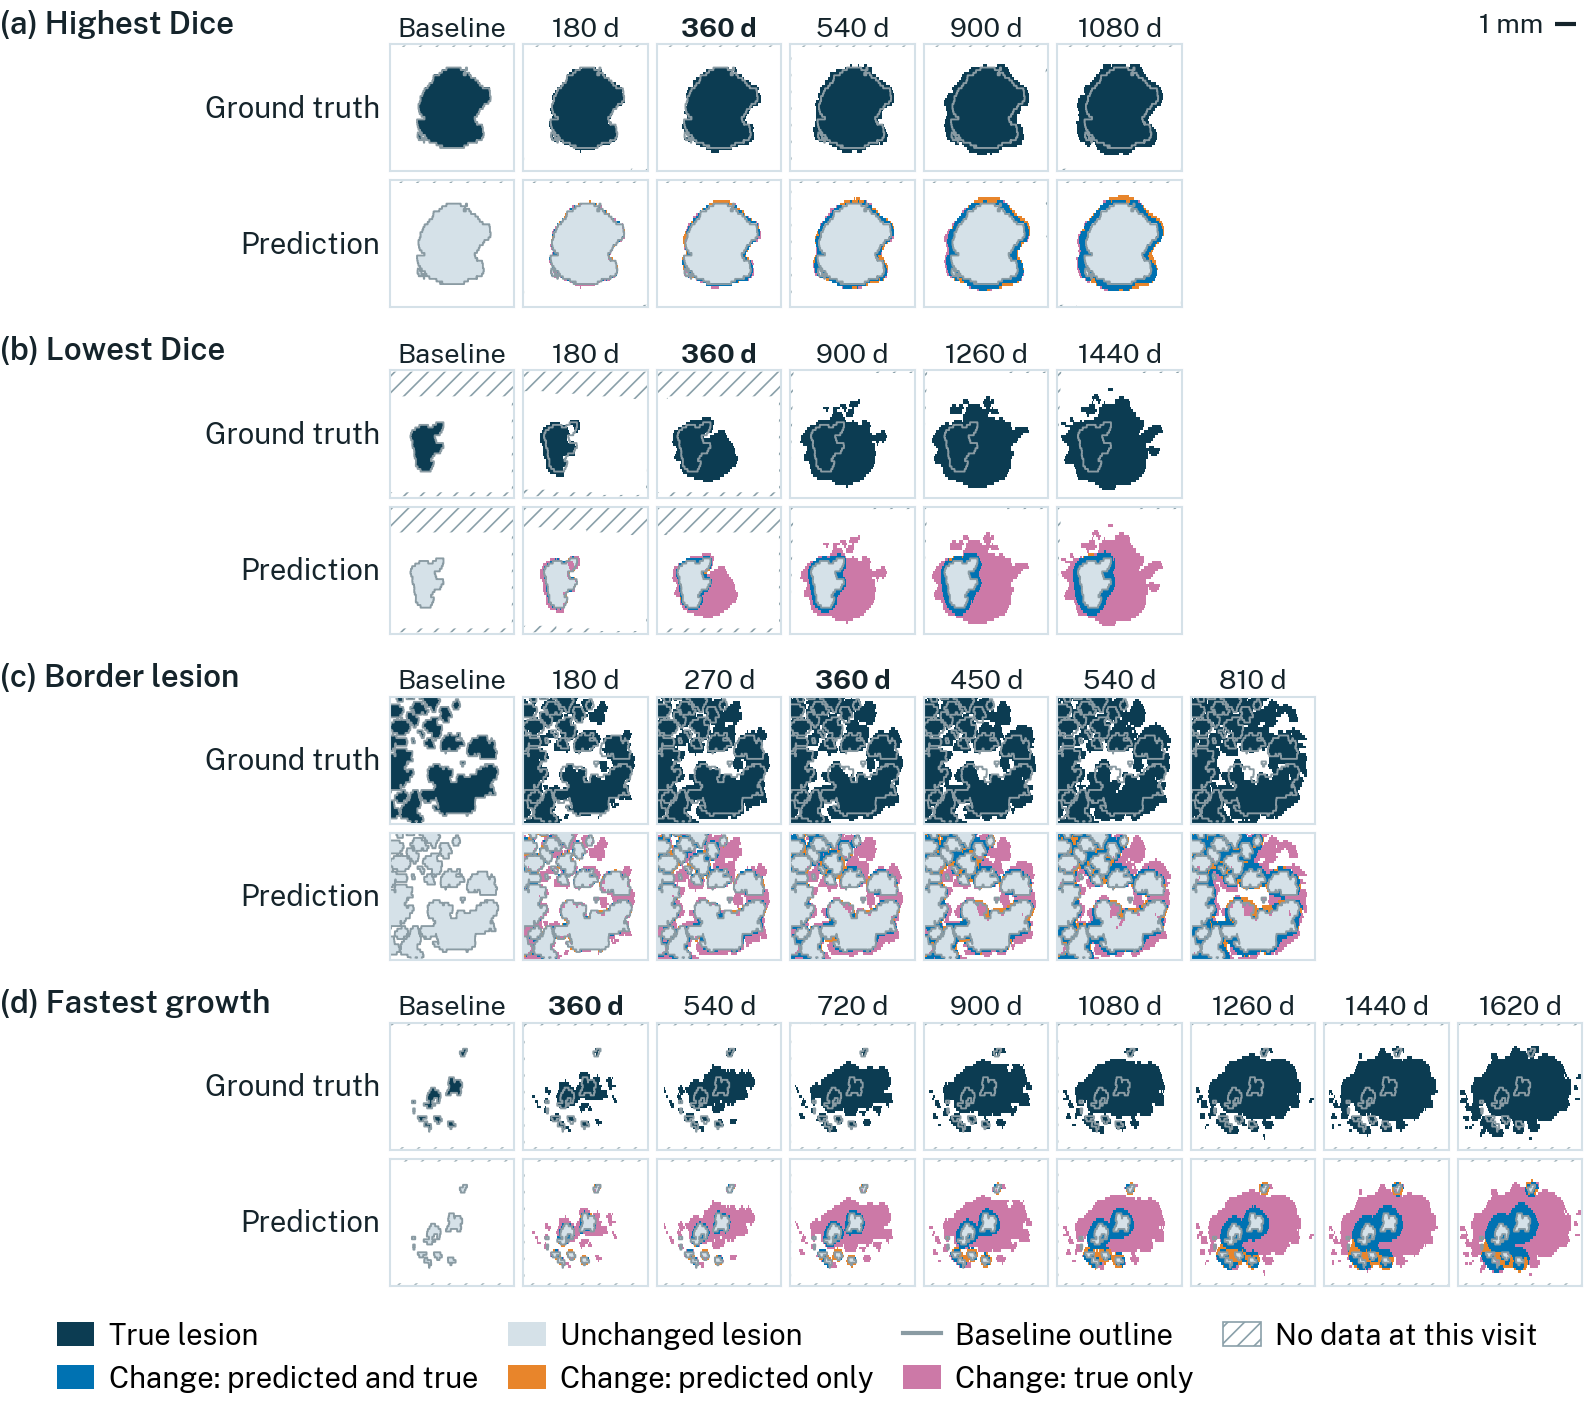
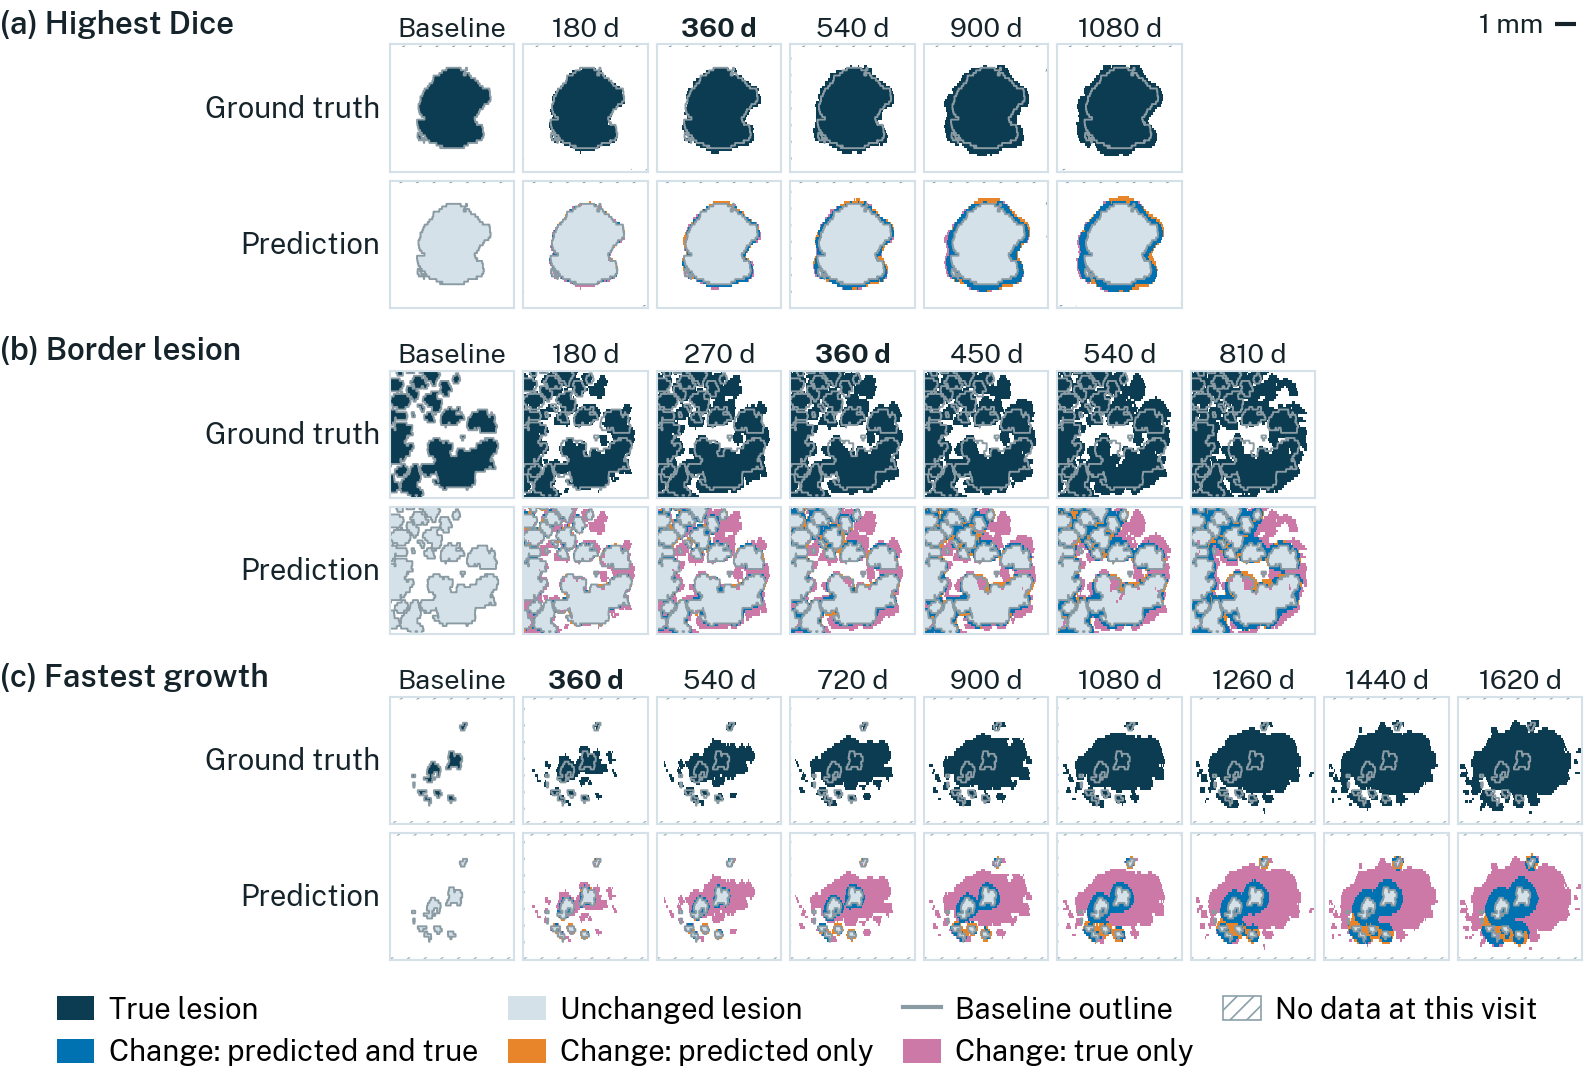
Review v6 #17/#21: GPU-sharing sentence removed; Fig. D.1 without the lowest-Dice panel; 'largest effect' removed from 5.3.2

diff --git a/91-appendix.tex b/91-appendix.tex
@@ -102,22 +102,22 @@ than 5\,\% of it in 6.0\,\%, and at most 25.7\,\%.
 % failure modes for 5.6 is still to be written.)
 
 Figure~\ref{fig:appendix:rollouts} shows rollouts of the canonical
-dilated-stencil graph network for four further eyes, chosen by fixed rules
-from the 48 validation eyes of folds 0, 1 and 2: the eyes with the highest
-and the lowest growth-region Dice at the one-year anchor, the eye whose
-lesion has the most pixels on the border of the crop, and the eye with the
-fastest true growth. The two failure cases share one pattern: the true
-lesion expands far beyond its baseline outline, and the predicted change
-stays a narrow band along that outline, so most of the true change is
-missed.
+dilated-stencil graph network for three further eyes, chosen by fixed
+rules from the 48 validation eyes of folds 0, 1 and 2: the eye with the
+highest growth-region Dice at the one-year anchor, the eye whose lesion has
+the most pixels on the border of the crop, and the eye with the fastest
+true growth. In the fastest-growing eye, the true lesion expands far beyond
+its baseline outline while the predicted change stays a narrow band along
+that outline, so most of the true change is missed.
 
 % Figure: images/scripts/fig_appendix_rollouts.py, from rollouts regenerated by
 % images/scripts/rollouts_regen.py (epoch-29 weights; folds 0-2 reproduce
 % their logged change-region Dice). Picks: (a) fold 0 index 10, 0.775;
-% (b) fold 0 index 5, 0.246; (c) fold 0 index 19, 833 border pixels;
-% (d) fold 0 index 14, 0.594 mm/yr (Dice 0.308). The longest-gap rule was
-% replaced by the fastest-growth rule because the longest-gap eye is the
-% eye of fig:experiments:rollout.
+% (b) fold 0 index 19, 833 border pixels; (c) fold 0 index 14, 0.594 mm/yr
+% (Dice 0.308). The longest-gap rule was replaced by the fastest-growth rule
+% because the longest-gap eye is the eye of fig:experiments:rollout.
+% 2026-10-02 (author review v6 #21): the "lowest Dice" panel (fold 0 index 5,
+% 0.246) was removed; the other three picks are unchanged without it.
 \begin{figure}[t]
   \centering
   % \includegraphics[width=\textwidth]{images/fig_appendix_rollouts.png}
@@ -126,15 +126,15 @@ missed.
     for Figure~\ref{fig:appendix:rollouts}: additional rollouts of the canonical model.}}
   \caption[Additional rollouts of the canonical model.]{%
     Additional rollouts of the dilated-stencil graph network (weights after
-    the last training epoch) for four validation eyes, each shown as ground
-    truth (upper row) and prediction (lower row) over all of its follow-up
-    visits. The eyes were selected by fixed rules from the 48 validation
-    eyes of folds 0, 1 and 2, excluding the eye of
-    Figure~\ref{fig:experiments:rollout}: \emph{(a)}~the highest and
-    \emph{(b)}~the lowest per-eye growth-region Dice at the one-year anchor
-    (late-epoch mean, 0.775 and 0.246); \emph{(c)}~the eye with the most
-    true-lesion pixels on the border of the imaged field at the anchor;
-    \emph{(d)}~the eye with the fastest true growth over its whole
+    the last training epoch) for three validation eyes, each shown as
+    ground truth (upper row) and prediction (lower row) over all of its
+    follow-up visits. The eyes were selected by fixed rules from the 48
+    validation eyes of folds 0, 1 and 2, excluding the eye of
+    Figure~\ref{fig:experiments:rollout}: \emph{(a)}~the highest per-eye
+    growth-region Dice at the one-year anchor (late-epoch mean, 0.775);
+    \emph{(b)}~the eye with the most true-lesion pixels on the border of the
+    imaged field at the anchor; \emph{(c)}~the eye with the fastest true
+    growth over its whole
     follow-up (0.59\,mm per year on the square-root area scale, measured
     within the crop). Column headers give the time since baseline in days;
     the one-year anchor is set in bold. The encoding is that of

diff --git a/images/scripts/fig_appendix_rollouts.py b/images/scripts/fig_appendix_rollouts.py
@@ -1,6 +1,6 @@
 """Figure fig_appendix_rollouts (Appendix D): additional rollouts of the canonical model
 (dilated-stencil graph network, epoch-29 weights), ground truth and prediction per eye,
-for four eyes chosen by stated rules from the regenerated validation eyes of folds 0, 1, 2.
+for three eyes chosen by stated rules from the regenerated validation eyes of folds 0, 1, 2.
 
 Data: images/data/rollouts/ANISOGNN_final_dilmean_f{0,1,2}.npz, written and self-checked by
 rollouts_regen.py (each reproduces its run's logged epoch-29 change-region Dice@360d).
@@ -9,11 +9,11 @@ Selection rules (over the 48 regenerated eyes; each rule skips eyes already chos
 eye shown in fig_experiments_rollout):
   (a) highest per-eye growth-region Dice at the one-year anchor (late-epoch mean,
       thesis_numbers.eye_late),
-  (b) lowest per-eye growth-region Dice at the anchor (same instrument),
-  (c) border-censored: most true-lesion pixels on the crop border at the anchor (outermost
+  (b) border-censored: most true-lesion pixels on the crop border at the anchor (outermost
       pixel ring of the window or 4-adjacent to zero padding -- train.py's border definition),
-  (d) fastest true progression: largest square-root-area growth rate of the true lesion over
+  (c) fastest true progression: largest square-root-area growth rate of the true lesion over
       the eye's whole follow-up, (sqrt(A_last) - sqrt(A_baseline)) / years.
+The former "lowest Dice" panel was removed (author review v6 #21, 2026-10-02).
 Every follow-up visit is drawn (no truncation); shorter schedules leave cells empty.
 
 Run from images/scripts/:  python fig_appendix_rollouts.py
@@ -71,9 +71,8 @@ def main():
 
     taken = {MAIN_FIG_EYE}
     rules = [("(a) Highest Dice", lambda e: -e["late"]),
-             ("(b) Lowest Dice", lambda e: e["late"]),
-             ("(c) Border lesion", lambda e: -e["border_px"]),
-             ("(d) Fastest growth", lambda e: -e["rate"])]
+             ("(b) Border lesion", lambda e: -e["border_px"]),
+             ("(c) Fastest growth", lambda e: -e["rate"])]
     picks = []
     for title, key in rules:
         k = min((k for k in eyes if k not in taken), key=lambda k: key(eyes[k]))

diff --git a/05-experiments.tex b/05-experiments.tex
@@ -533,9 +533,9 @@ eye $+0.0647 \pm 0.0062$ (70/75, $t = 10.4$). The pre-committed
 replication at seed 7 gives $\Delta = +0.0629 \pm 0.0131$~SE (5/5) and per
 eye $+0.0620 \pm 0.0071$ (66/75, $t = 8.7$); pooled over both seeds, the
 per-eye difference is $+0.0633 \pm 0.0047$ (136/150 eye-seed pairs). This
-is the largest effect in the project. It was obtained by changing only
-the edge set, at the same parameter count, and it is the reason the dilated
-stencil is the canonical configuration.
+gain was obtained by changing only the edge set, at the same parameter
+count, and it is the reason the dilated stencil is the canonical
+configuration.
 
 Table~\ref{tab:experiments:reach} compares other stencil geometries with the
 default. Both a shorter (up to $\pm 12$ columns) and a longer (up to
@@ -1671,9 +1671,8 @@ measured causes. The first is this overhead. The second is that the work
 per epoch differs between folds: an epoch is twenty passes over the
 fold's training eyes in batches of four, which gives 280, 320, 300, 300
 and 320 optimiser steps for folds 0 to 4. Normalised by the number of
-steps, the minimum epoch times of the five folds agree to about 3\,\%. An
-earlier explanation of the spread by several runs sharing one GPU was
-checked and does not hold: no two runs ever shared a GPU. All runs used
+steps, the minimum epoch times of the five folds agree to about 3\,\%. All
+runs used
 one NVIDIA RTX A6000 GPU and 30 epochs. The cost figures support
 order-of-magnitude statements only.
 

diff --git a/06-discussion.tex b/06-discussion.tex
@@ -145,8 +145,8 @@ that transports the state produced the largest effects. Larger models, a
 higher integration order, a penalty against lesion shrinkage and the
 moving-mesh extension of Appendix~\ref{app:mm-pde}, whose correction
 branch never engaged, did not improve accuracy at the available precision.
-The objective, by contrast, did matter: the weighting of the mask channel
-decided whether anything was learned at all. For a new disease-forecasting task of this kind, the first
+The objective, by contrast, did matter: whether the loss emphasised the
+mask decided whether anything was learned at all. For a new disease-forecasting task of this kind, the first
 question to ask of an operator is therefore how far one update reaches
 compared with how far the disease moves between visits.
 

diff --git a/NOTES.md b/NOTES.md
@@ -1266,8 +1266,17 @@ worked through one item at a time.
   correction of 2026-10-01 missed there). §6.1 and §6.4 keep their headings (not on the list).
 - [ ] #18/#19 "Figure 5.7:" / "Figure 5.8:" -- highlighted without comment; both figures are
   disabled for now (placeholders). Ask the author when the figures come back.
-- [ ] #17 §5.7 GPU-sharing sentence -- red, "remove".
-- [ ] #21 Fig. D.1 panel (b) "Lowest Dice" -- red cross, "absolutely not".
+- [x] #17 §5.7 GPU-sharing sentence -- red, "remove". Removed 2026-10-02.
+- [x] #21 Fig. D.1 panel (b) "Lowest Dice" -- red cross, "absolutely not". Done 2026-10-02:
+  rule removed from `images/scripts/fig_appendix_rollouts.py` (three eyes now; the other picks
+  are unchanged: fold 0 eyes 10, 19, 14), PNG re-rendered in the MPPDE env (figure still
+  disabled), Appendix D text and caption updated ("three further eyes"; the failure-pattern
+  sentence now describes the fastest-growing eye only). The legend still lists "No data at this
+  visit", which no remaining panel shows -- drop it when the figure is re-enabled.
+- [x] 2026-10-02 (author): "the largest effect in the project" removed from §5.3.2 as well (abstract
+  and Ch. 7 already); the transport term against its matched control (+0.072) is larger. §6.1
+  "the weighting of the mask channel decided" -> "whether the loss emphasised the mask decided"
+  (the plain-MSE run removed weighting and soft-Dice).
 
 ### Assets that now exist and should be reused
 
